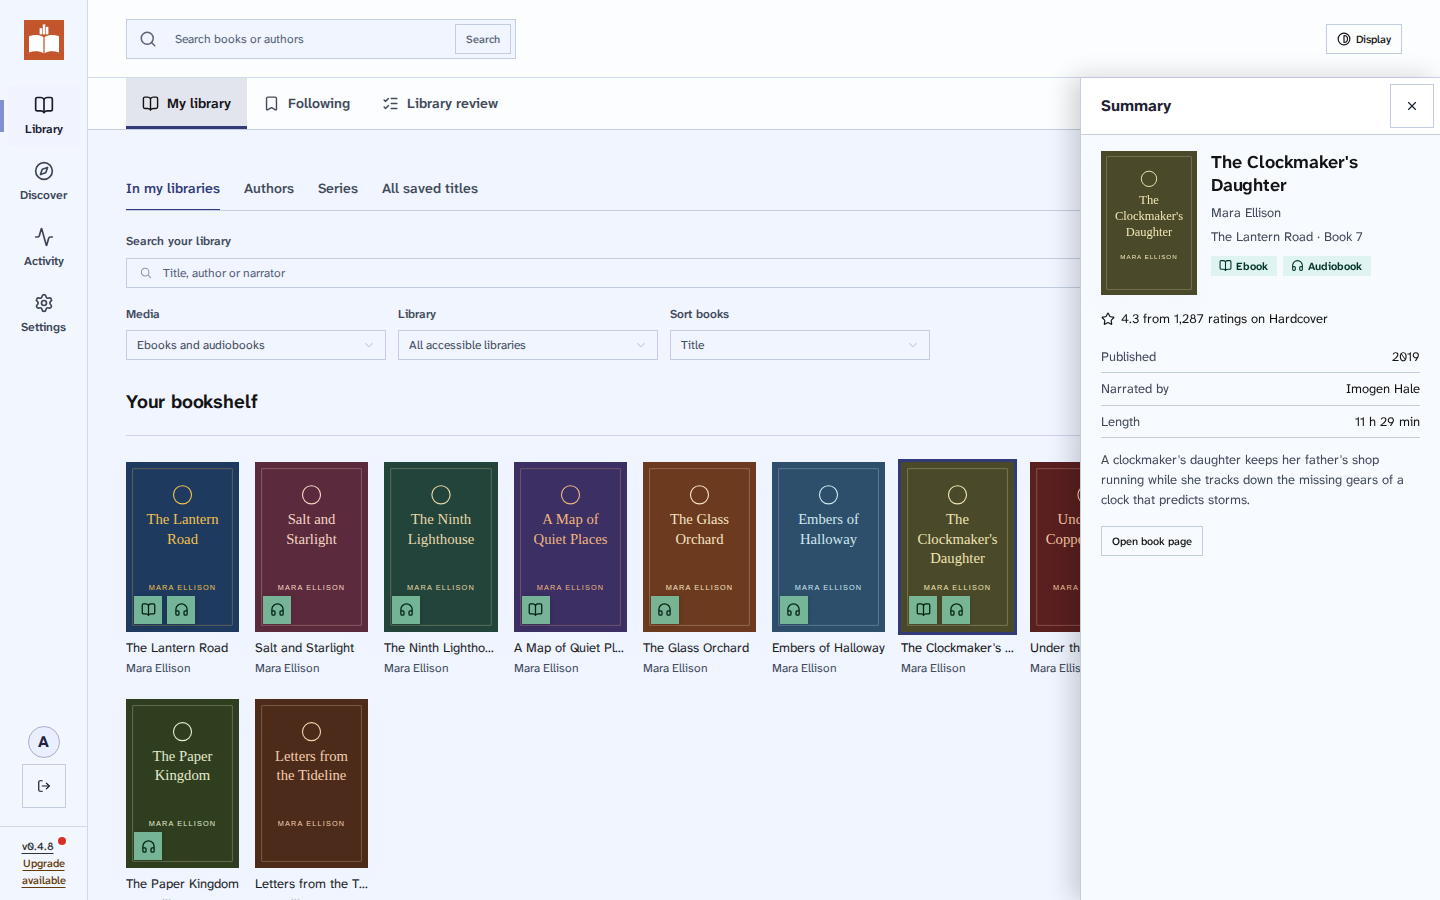
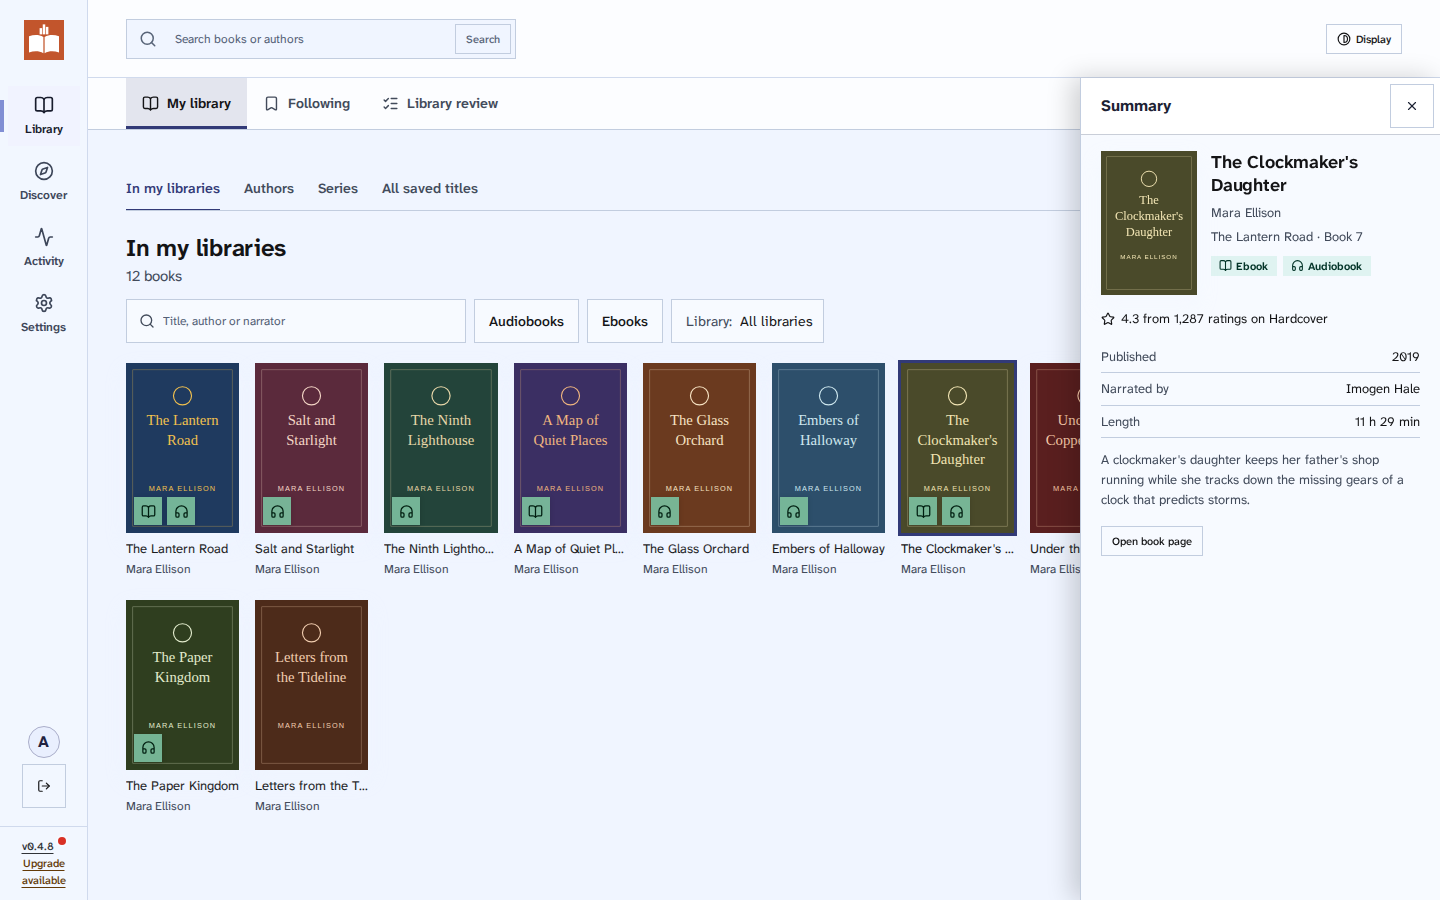
Library tabs: two quick filter changes both stick; live test uses the format chip
In my libraries and All saved titles built the next address from the last render, so a
format chip followed quickly by Sort dropped the chip (seen in CI). Read the address as it is
now, as Authors and Series already did. The infinite discovery journey selects Audiobooks with
the chip instead of the old Media list.

Changed region(s): [[0.0625, 0.2489, 0.75, 0.9956]]

diff --git a/apps/web/src/pages/MyLibrary.tsx b/apps/web/src/pages/MyLibrary.tsx
@@ -67,7 +67,9 @@ export default function MyLibrary({
   const state: AssetState = "any";
   const sort: AssetSort = params.get("sort") === "recent" ? "recent" : "title";
   function change(key: string, value: string) {
-    const next = new URLSearchParams(params);
+    // Start from the address as it is now, not as it was at the last render, so two quick changes
+    // (a format chip, then Sort) both stick.
+    const next = new URLSearchParams(window.location.search);
     if (value) next.set(key, value);
     else next.delete(key);
     if (key !== "offset") next.delete("offset");

diff --git a/apps/web/tests/infinite-discovery.spec.ts b/apps/web/tests/infinite-discovery.spec.ts
@@ -261,9 +261,7 @@ test("library appends books and changing format starts a fresh result set", asyn
   await books.locator(".infinite-scroll").scrollIntoViewIfNeeded();
   await expect(books.locator(".shelf-book")).toHaveCount(41);
   expect(offsets).toContain(40);
-  await page
-    .getByRole("combobox", { name: "Media", exact: true })
-    .selectOption("audio");
+  await page.getByRole("button", { name: "Audiobooks", exact: true }).click();
   await expect(books.locator(".shelf-book")).toHaveCount(1);
   await expect(
     page.getByRole("heading", { name: "Audio title 0" }),

diff --git a/apps/web/src/pages/Catalog.tsx b/apps/web/src/pages/Catalog.tsx
@@ -21,7 +21,8 @@ export default function Catalog({ canEdit }: { canEdit: boolean }) {
   const client = useQueryClient();
   const view = useSavedView("saved");
   const change = (key: string, value: string) => {
-    const next = new URLSearchParams(params);
+    // The address as it is now, so two quick changes both stick.
+    const next = new URLSearchParams(window.location.search);
     if (value) next.set(key, value);
     else next.delete(key);
     next.delete("offset");
